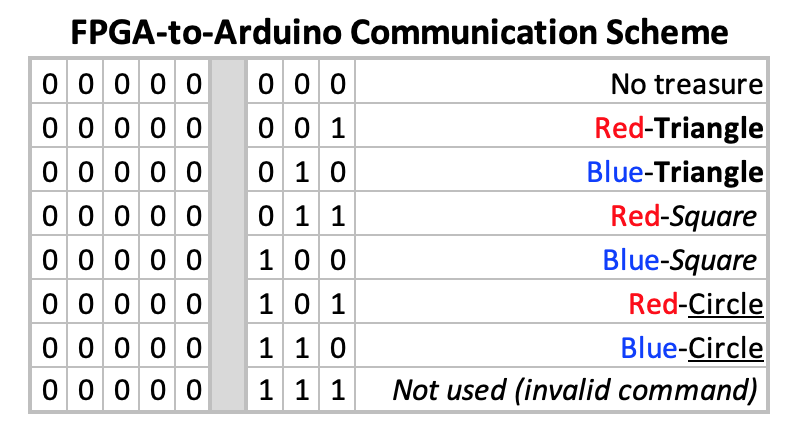
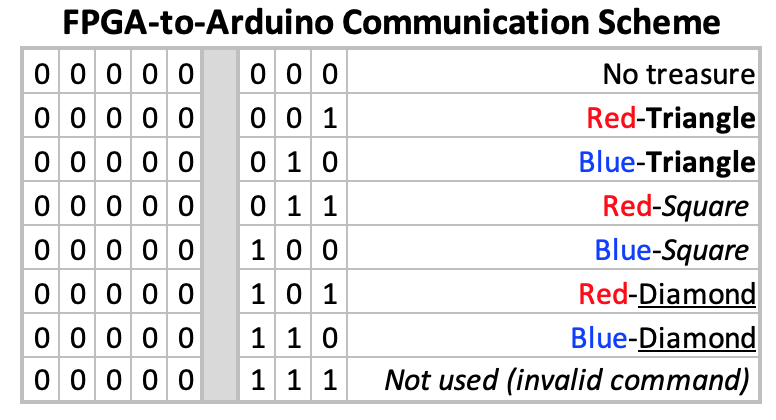
Website updates

diff --git a/milestone3.html b/milestone3.html
@@ -122,17 +122,35 @@ Updated: 11/29/2018 -->
         of arbitrary size and configuration, while also updating the GUI.</p>
       <h4 class="page-header text-left">Navigation Algorithm - <i>Depth First Search (DFS)</i></h4>
       <ul class="list-bullet">
-        <li>We chose to implement a modified DFS algorithm because it is relatively simple to get working and does not use very much memory.</li>
-        <li>Our DFS prioritizes moving straight over turning left or right, as turning takes time.</li>
-        <li>The robot will continue moving to unexplored grid spaces until it either hits a dead end or encounters only grid spaces it has visited before.</li>
-        <li>When the robot encounters a dead end (3 walls) it begins reversing its movement.</li>
-        <li>Unless hte robot has explored everything, there will be some unexplored node along the robot's path. It will continue retracing its steps
-        until it finds an unexplored grid space, at which point it will turn and explore the new area.</li>
-        <li>To support this, we store the coordinates of each grid node, so that the robot can retrace its steps in the opposite direction. This
-        is stored in an array that functions as a stack (with a pointer that we change to "pop" coordinates off of the stack).</li>
-        <li>When the robot finds that it can only see coordinates that it has encountered before, we move into one of these spaces. We then search in
-        our traversal stack for the coordinate we just moved into, and pop off everything that came after it. We then continue reversing our steps as described above.</li>
-        <li>Below is pseudo-code demonstrating the algorithm.</li>
+        <li>We chose to implement a modified DFS algorithm</li>
+        <ul>
+          <li>DFS is relatively simple to get working</li>
+          <li>DFS does not use very much memory</li>
+        </ul>
+        <li>Our DFS prioritizes moving straight over turning left or right, as turning takes time</li>
+        <li>The robot will continue moving to unexplored grid spaces until it either:</li>
+        <ul>
+           <li>Hits a dead end</li>
+           OR
+           <li>Encounters only grid spaces it has visited before</li>
+        </ul>
+        <li>When the robot encounters a dead end (3 walls), it begins backtracking</li>
+        <li>Unless the robot has explored everything, there is guaranteed to be some unexplored node along the robot's path</li>
+        <ul>
+          <li>It will continue retracing its steps until it finds an unexplored grid space</li>
+          <li>At that point, it will turn and explore the new area</li>
+        </ul>
+        <li>To support this, we store the coordinates of each grid node</li>
+        <ul>
+          <li>This allows the robot to retrace its steps in the opposite direction</li>
+          <li>This information is stored in an array that functions as a stack (with a pointer that we change to "pop" coordinates off of the stack)</li>
+        </ul>
+        <li>When the robot finds that it can only see coordinates that it has encountered before, we move into one of those spaces</li>
+        <ul>
+          <li>We then search in our traversal stack for the coordinate we just moved into, and pop off everything that came after it</li>
+          <li>We then continue reversing our steps as described above</li>
+        </ul>
+        <li>Below is pseudo-code demonstrating our algorithm</li>
       </ul>
       <br>
       <pre class="prettyprint"><code class="language-cpp">
@@ -172,6 +190,20 @@ Updated: 11/29/2018 -->
             retrace_steps();
         }
       </code></pre>
+      <br><hr>
+      <h3 class="page-header text-center">Maze Navigation Algorithm Demonstration</h3>
+      <p>This video demonstrates our robot completing all required behaviors:</p>
+      <ul>
+        <li>Robot capable of maze exploration using DFS</li>
+        <ul>
+          <li>Different maze configurations are used</li>
+          <li>At least one of the configurations is a minimum size of 4x5</li>
+        </ul>
+        <li>Robot capable of updating the GUI during exploration</li>
+      </ul>
+      <div class="embed-responsive embed-responsive-21by9">
+        <iframe width="560" height="315" src="https://www.youtube.com/embed/JfasRdmIlkU" frameborder="0" allow="accelerometer; autoplay; encrypted-media; gyroscope; picture-in-picture" allowfullscreen></iframe>
+      </div>
     </div>
 
     <!-- Footer -->

diff --git a/milestone4.html b/milestone4.html
@@ -30,7 +30,7 @@ Updated: 11/29/2018 -->
     <!-- Custom styles for this template -->
     <link href="css/agency.css" rel="stylesheet">
     <script src="https://cdn.rawgit.com/google/code-prettify/master/loader/run_prettify.js?skin=desert"></script>
-    
+
     <!--favicon support for all modern browsers / mobile devices-->
     <link rel="apple-touch-icon" sizes="180x180" href="img/favicon/apple-touch-icon.png">
     <link rel="icon" type="image/png" sizes="32x32" href="img/favicon/favicon-32x32.png">
@@ -116,6 +116,60 @@ Updated: 11/29/2018 -->
       <br><br>
       <h1 class="page-header text-center">Milestone 4</h1>
       <hr>
+      <h4 class="page-header text-left">Milestone Goals</h4>
+      <p>
+        Integrate the following functionality:
+        <ul>
+          <li>Treasure recognition</li>
+          <li>Treasure color detection</li>
+          <li>Treasure shape detection</li>
+          <li>FPGA-to-Arduino communication</li>
+        </ul>
+      </p>
+      <hr>
+
+      <h4 class="page-header text-left">Hardware Setup</h4>
+      <ul class="list-bullet">
+        <li></li>
+        <li></li>
+        <li></li>
+      </ul>
+      <h4 class="page-header text-left">Treasure Detection Algorithm</h4>
+      <ul class="list-bullet">
+        <li></li>
+        <li></li>
+        <li></li>
+      </ul>
+      <h4 class="page-header text-left">Color Detection Algorithm</h4>
+      <ul class="list-bullet">
+        <li></li>
+        <li></li>
+        <li></li>
+      </ul>
+      <h4 class="page-header text-left">Shape Detection Algorithm</h4>
+      <ul class="list-bullet">
+        <li></li>
+        <li></li>
+        <li></li>
+      </ul>
+      <h4 class="page-header text-left">Integration onto Robot</h4>
+      <ul class="list-bullet">
+        <li></li>
+        <li></li>
+        <li></li>
+      </ul>
+      <br><hr>
+      <h3 class="page-header text-center">Treasure Detection Demonstration</h3>
+      <p>This video demonstrates our robot completing all required behaviors:</p>
+      <ul>
+        <li>Robot capable of detecting when there are/are not treasures</li>
+        <li>Robot capable of distinguishing between red and blue treasures</li>
+        <li>Robot capable of distinguishing a square, triangle, and diamond shape</li>
+        <li>Transmitting treasure detection information from the FPGA to the Arduino</li>
+      </ul>
+      <div class="embed-responsive embed-responsive-21by9">
+        <iframe width="560" height="315" src="https://www.youtube.com/embed/JfasRdmIlkU" frameborder="0" allow="accelerometer; autoplay; encrypted-media; gyroscope; picture-in-picture" allowfullscreen></iframe>
+      </div>
     </div>
 
     <!-- Footer -->

diff --git a/index.html b/index.html
@@ -30,7 +30,7 @@ Updated: 11/29/2018 -->
     <!-- Custom styles for this template -->
     <link href="css/agency.css" rel="stylesheet">
     <script src="https://cdn.rawgit.com/google/code-prettify/master/loader/run_prettify.js?skin=desert"></script>
-    
+
     <!--favicon support for all modern browsers / mobile devices-->
     <link rel="apple-touch-icon" sizes="180x180" href="img/favicon/apple-touch-icon.png">
     <link rel="icon" type="image/png" sizes="32x32" href="img/favicon/favicon-32x32.png">
@@ -110,6 +110,22 @@ Updated: 11/29/2018 -->
         </div>
       </div>
     </header>
+
+    <div class="container">
+      <br>
+      <h1 class="page-header text-center">Experience Robotics at Cornell</h1>
+      <ul>
+        <li>ECE 3400 Intelligent Physical Systems - <b><a target="_blank" href="https://cei-lab.github.io/ece3400-2018/CompetitionSchedule.pdf">Final Competition</a></b></li>
+        <li>Location: Duffield Hall</li>
+        <li>Time: December 4th, 2018 from 9:00 - 11:30 AM</li>
+      </ul>
+      <p>Join us for a day of robotics celebration, with interactive exhibits
+        by our award winning project and research teams, and two annual course
+        competitions themed around Robotic Maze Runners from ECE 3400:
+        Intelligent Physical Systems (9-11.30am) and the Cube Crazy Robots
+        from MAE 3780: Mechatronics (1-4pm). All are welcome!
+      </p>
+    </div>
 
     <!-- Team -->
     <section class="bg-light" id="team">

diff --git a/lab4.html b/lab4.html
@@ -30,7 +30,7 @@ Updated: 11/29/2018 -->
     <!-- Custom styles for this template -->
     <link href="css/agency.css" rel="stylesheet">
     <script src="https://cdn.rawgit.com/google/code-prettify/master/loader/run_prettify.js?skin=desert"></script>
-    
+
     <!--favicon support for all modern browsers / mobile devices-->
     <link rel="apple-touch-icon" sizes="180x180" href="img/favicon/apple-touch-icon.png">
     <link rel="icon" type="image/png" sizes="32x32" href="img/favicon/favicon-32x32.png">
@@ -535,7 +535,7 @@ Updated: 11/29/2018 -->
     <div class="embed-responsive embed-responsive-21by9">
       <iframe width="560" height="315" src="https://www.youtube.com/embed/JfasRdmIlkU" frameborder="0" allow="accelerometer; autoplay; encrypted-media; gyroscope; picture-in-picture" allowfullscreen></iframe>
     </div>
-    </div>
+  </div>
 
 
 
